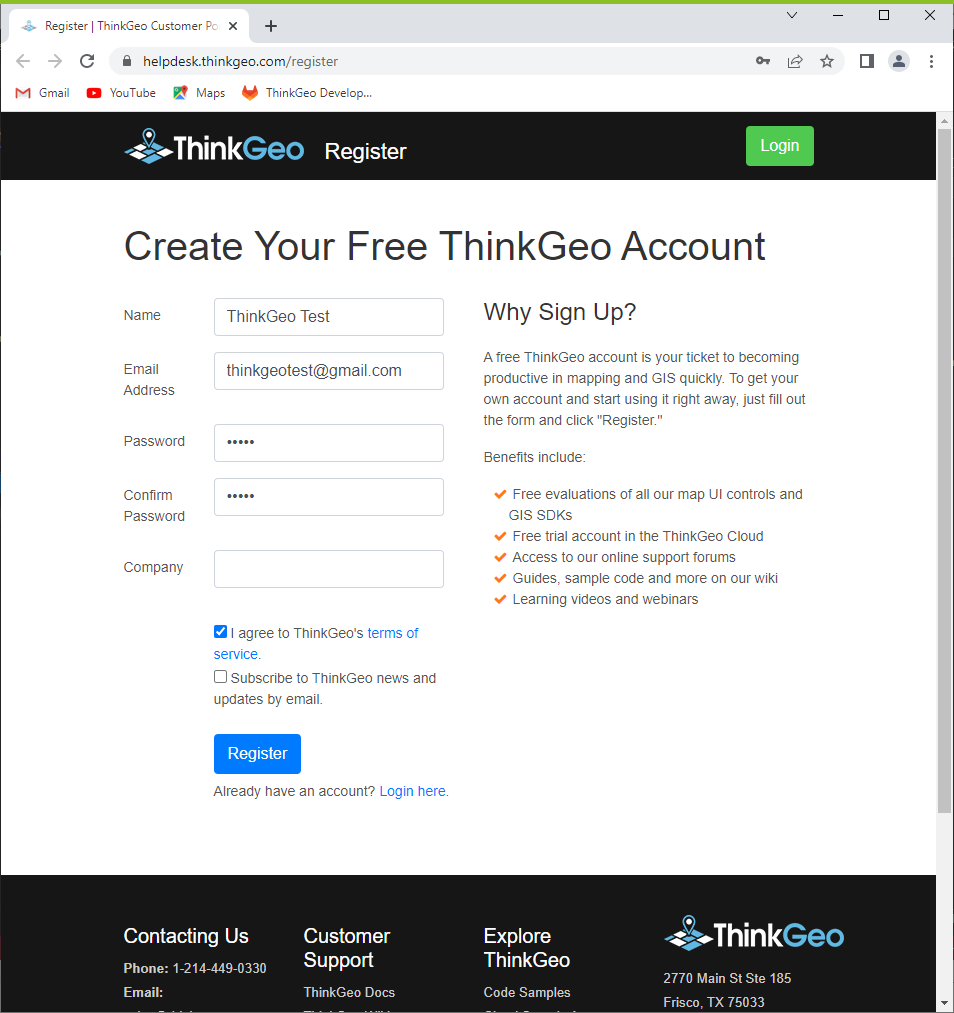
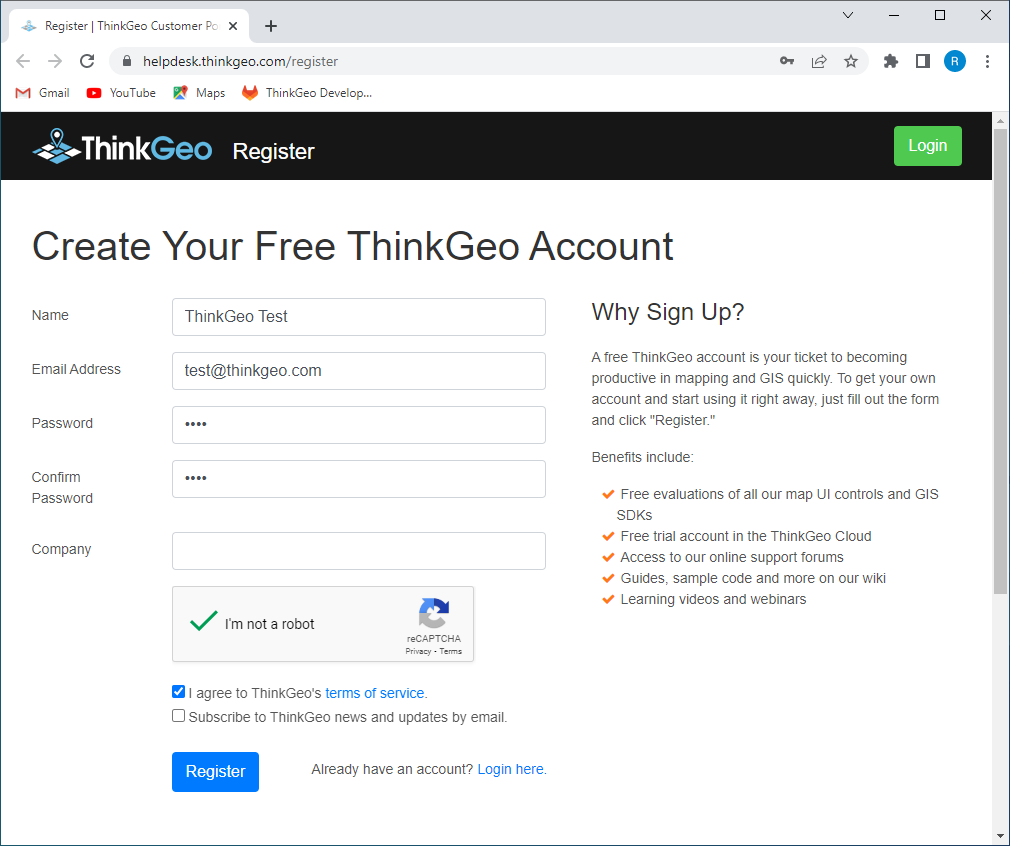
thinkgeo/public/thinkgeo-desktop-maps#14 Add ProductionCenter.md file and replace the Create_ThinkGeo_Account.png file by new one

diff --git a/QuickStartGuides/QuickStartGuide_WPF_VS/ProductionCenter.md b/QuickStartGuides/QuickStartGuide_WPF_VS/ProductionCenter.md
@@ -1,0 +1,25 @@
+This guide will demonstrate how to register for a ThinkGeo account, download and install the Production Center, and activate your ThinkGeo products.
+
+# ThinkGeo Production Center: Manage all ThinkGeo Products Licenses
+
+### Step 1: Run the Sample & Register for Your Free Evaluation
+
+The first time you run your application, two things happen at the same time. One is that if you have not install a license, you may encounter a 'licenses not installed' exception. 
+
+![Registration Exception](./assets/LicenseNotInstalledException.png "Registration Exception")
+
+The other is that you will be directed to ThinkGeo's registration website. There, you can create an account to begin a 30-day free evaluation, and you can find instructions for downloading and installing the Production Center, as well as information on how to manage all licenses for ThinkGeo products from within the [Production Center](https://cloud.thinkgeo.com/clients.html). 
+
+<img src="./assets/Create_ThinkGeo_Account.png"  width="840" height="580">
+
+Once you activate the 'ThinkGeo UI WPF' license to start your evaluation, you should be able to see the map with our Cloud Maps layer! You can zoom in on the maps in several ways, including double-clicking the left mouse key, using the mouse wheel, or selecting an area to zoom in on. You can also rotate the maps by pressing "Alt + mouse left key."
+
+<img src="./assets/Cloud_Maps_Layer_ScreenShot.gif"  width="840" height="580">
+
+### Step 2: Download and install ThinkGeo Production Center
+
+Now that you have a basic setup, you can add custom data to the map. Depending on the data, this can be complex or quite simple. We'll be going over the simple basics of adding custom data, with a pitfall or two to help you better understand how our framework can help you get around these issues.
+
+Download the [WorldCapitals.zip](https://gitlab.com/thinkgeo/public/thinkgeo-desktop-maps/-/tree/master/assets/WorldCapitals.zip) shapefile data and unzip it in your project under a new folder called `AppData`. Make sure that the files are set to copy to the build output directory. From there, we can add the shapefile to the map.
+
+<img src="./assets/QuickStart_ShapeFile_PointStyle_ScreenShot.gif"  width="840" height="580">
